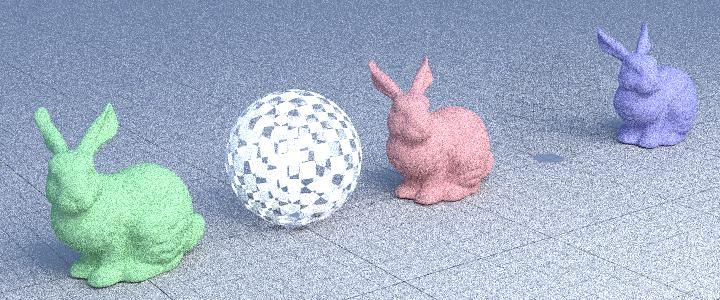
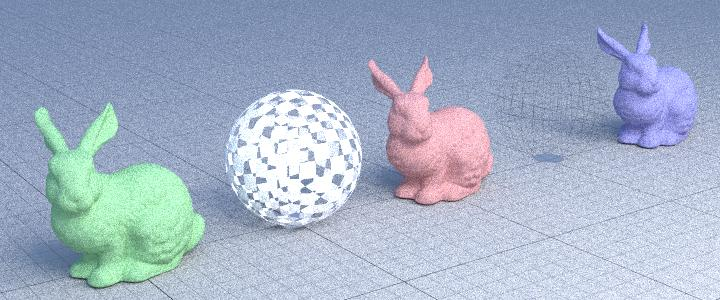
added MIS implementation, with some bug on directional light object

diff --git a/libs/yocto_pathtrace/yocto_pathtrace.cpp b/libs/yocto_pathtrace/yocto_pathtrace.cpp
@@ -101,10 +101,10 @@ static vec3f eval_bsdfcos(const material_point& material, const vec3f& normal,
         return eval_glossy(material.color, material.ior, material.roughness,
             normal, outgoing, incoming);
       case material_type::reflective:
-        return eval_reflective(material.color, normal, outgoing, incoming);
+        return eval_reflective(material.color, material.roughness, normal, outgoing, incoming);
       case material_type::transparent:
         return eval_transparent(
-            material.color, material.ior, normal, outgoing, incoming);
+            material.color, material.ior, material.roughness, normal, outgoing, incoming);
       default: return zero3f;
   }
   return zero3f;
@@ -139,10 +139,10 @@ static vec3f sample_bsdfcos(const material_point& material, const vec3f& normal,
   case material_type::glossy:
     return sample_glossy(material.color, material.ior, material.roughness, normal, outgoing, rnl, rn);
   case material_type::reflective:
-    return sample_reflective(material.color, normal, outgoing);
+    return sample_reflective(material.color, material.roughness, normal, outgoing, rn);
   case material_type::transparent:
     return sample_transparent(
-        material.color, material.ior, normal, outgoing, rnl);
+        material.color, material.ior, material.roughness, normal, outgoing, rnl, rn);
   default: return zero3f;
   }
   return zero3f;
@@ -174,10 +174,10 @@ static float sample_bsdfcos_pdf(const material_point& material,
       return sample_glossy_pdf(material.color, material.ior, material.roughness,
           normal, outgoing, incoming);
     case material_type::reflective:
-      return sample_reflective_pdf(material.color, normal, outgoing, incoming);
+      return sample_reflective_pdf(material.color, material.roughness, normal, outgoing, incoming);
     case material_type::transparent:
       return sample_tranparent_pdf(
-          material.color, material.ior, normal, outgoing, incoming);
+          material.color, material.ior, material.roughness, normal, outgoing, incoming);
     default: return 0;
   }
   return 0;
@@ -202,16 +202,82 @@ static float sample_delta_pdf(const material_point& material,
 static vec3f sample_lights(const scene_data& scene,
     const pathtrace_lights& lights, const vec3f& position, float rl, float rel,
     const vec2f& ruv) {
-  // YOUR CODE GOES HERE
-  return {0, 0, 0};
+  // Sample random light
+  unsigned int lid = sample_uniform(lights.lights.size(), rl);
+  const pathtrace_light& light = lights.lights[lid];
+
+  if (light.instance != invalidid) 
+  {
+    const instance_data& inst = scene.instances[light.instance];
+    auto tid = sample_discrete(light.elements_cdf, rel);
+    auto uv  = sample_triangle(ruv);
+    vec3f local_p = eval_position(scene, inst, tid, uv);
+    return normalize(local_p - position);
+  } 
+  else if (light.environment != invalidid) 
+  {
+    const environment_data& env = scene.environments[light.environment]; 
+    if (env.emission_tex == invalidid) return zero3f;
+
+    const texture_data& texture = scene.textures[env.emission_tex];
+    int tid  = sample_discrete(light.elements_cdf, rel);
+    float u  = ((tid % texture.width) + ruv.x) / static_cast<float>(texture.width);
+    float v  = ((tid / texture.width) + ruv.y) / static_cast<float>(texture.height);
+    return transform_direction(env.frame, 
+        vec3f{cos(u * 2 * pif) * sin(v * pif), cos(v * pif), sin(u * 2 * pif) * sin(v * pif)});
+  }
+  return zero3f;
 }
 
 // Sample lights pdf
 static float sample_lights_pdf(const scene_data& scene, const bvh_data& bvh,
     const pathtrace_lights& lights, const vec3f& position,
     const vec3f& direction) {
-  // YOUR CODE GOES HERE
-  return 0;
+  float pdf = 0.f;
+  for (const pathtrace_light& l : lights.lights) 
+  {
+    if (l.instance != invalidid) 
+    {
+      float lpdf = 0.f;
+      vec3f np   = position;
+      for (unsigned int bounce = 0; bounce < 100; ++bounce) 
+      {
+        auto isec = intersect_bvh(bvh, scene, ray3f{np, direction});
+        if (!isec.hit) break;
+        vec3f lp = eval_position(scene, isec);
+        vec3f ln = eval_element_normal(scene, isec);
+
+        float A = l.elements_cdf.back();
+        lpdf += distance_squared(lp, position) /
+                (abs(dot(ln, direction)) * A);
+        np = lp + direction * 1e-3f;
+      }
+      pdf += lpdf;
+    } 
+    else if (l.environment != invalidid) 
+    {
+      const environment_data& env     = scene.environments[l.environment];
+      if (env.emission_tex != invalidid) 
+      {
+        const texture_data& texture = scene.textures[env.emission_tex];
+        vec3f wl = transform_direction(inverse(env.frame), direction);
+        vec2f texcoord = {atan2(wl.z, wl.x) / (2 * pif), acos(clamp(wl.y, -1.f, 1.f)) / pif};
+        if (texcoord.x < 0) texcoord.x += 1;
+
+        int i = clamp(
+            static_cast<int>(texcoord.x * texture.width), 0, texture.width - 1);
+        int j = clamp(static_cast<int>(texcoord.y * texture.height), 0,
+            texture.height - 1);
+
+        float prob = sample_discrete_pdf(l.elements_cdf, j * texture.width + i) / l.elements_cdf.back();
+        float angle = (2 * pif / texture.width) * (pif / texture.height) *
+                      sin(pif * (j + 0.5f) / texture.height);
+        pdf += prob / angle;
+      } 
+    }
+  }
+  pdf *= sample_uniform_pdf(lights.lights.size());
+  return pdf;
 }
 
 // Recursive path tracing.
@@ -219,7 +285,67 @@ static vec4f shade_pathtrace(const scene_data& scene, const bvh_data& bvh,
     const pathtrace_lights& lights, const ray3f& ray_, rng_state& rng,
     const pathtrace_params& params) {
   // YOUR CODE GOES HERE
-  return {0, 0, 0, 0};
+  // Init
+  ray3f ray = ray_;
+  vec3f l   = zero3f;
+  vec3f w   = one3f;
+
+  // For bounce 0 --> max_bounce
+  for (unsigned int bounce = 0; bounce < params.bounces; ++bounce) {
+    const bvh_intersection& isec = intersect_bvh(bvh, scene, ray);
+    if (!isec.hit) 
+    {
+      l += w * eval_environment(scene, ray.d);
+      break;
+    }
+
+    const vec3f& outgoing = -ray.d;
+    const vec3f& position = eval_shading_position(scene, isec, outgoing);
+    const vec3f& normal   = eval_shading_normal(scene, isec, outgoing);
+
+    const material_point& material = eval_material(scene, isec);
+
+    if (rand1f(rng) >= material.opacity) 
+    {
+      ray = {position + ray.d * 1e-2f, ray.d};
+      bounce -= 1;
+      continue;
+    }
+
+    l += w * eval_emission(material, normal, outgoing);
+    vec3f incoming = zero3f;
+    if (!is_delta(material)) 
+    {
+      if (rand1f(rng) < 0.5f)
+        incoming = sample_bsdfcos(material, normal, outgoing, rand1f(rng), rand2f(rng));
+      else incoming = sample_lights(scene, lights, position, rand1f(rng), rand1f(rng), rand2f(rng));
+
+      if (incoming == zero3f) break;
+      w *= eval_bsdfcos(material, normal, outgoing, incoming) /
+           (0.5f * sample_bsdfcos_pdf(material, normal, outgoing, incoming) + 0.5f * sample_lights_pdf(scene, bvh, lights, position, incoming));
+    } else 
+    {
+      incoming = sample_delta(material, normal, outgoing, rand1f(rng));
+      if (incoming == zero3f) break;
+      w *= eval_delta(material, normal, outgoing, incoming) /
+           sample_delta_pdf(material, normal, outgoing, incoming);
+    }
+
+    // check weight
+    if (w == zero3f || !isfinite(w)) break;
+
+    // Russian roulette
+    if (bounce > 3) 
+    {
+      float rrp = min(1.f, max(w));  // Russian Roulette probability
+      if (rand1f(rng) >= rrp) break;
+      w *= 1.f / rrp;
+    }
+
+    ray = {position, incoming};
+  }
+
+  return rgb_to_rgba(l);
 }
 
 // Recursive path tracing.
@@ -236,7 +362,11 @@ static vec4f shade_naive(const scene_data& scene, const bvh_data& bvh,
   // For bounce 0 --> max_bounce
   for (unsigned int bounce = 0; bounce < params.bounces; ++bounce) {
     const bvh_intersection& isec = intersect_bvh(bvh, scene, ray);
-    if (!isec.hit) return rgb_to_rgba(l + (w * eval_environment(scene, ray.d)));
+    if (!isec.hit) 
+    {
+      l += w * eval_environment(scene, ray.d);
+      break;
+    }
 
     const vec3f& outgoing = -ray.d;
     const vec3f& position = eval_shading_position(scene, isec, outgoing);
@@ -244,7 +374,8 @@ static vec4f shade_naive(const scene_data& scene, const bvh_data& bvh,
 
     const material_point& material = eval_material(scene, isec);
     
-    if (material.opacity < 1 && rand1f(rng) >= material.opacity) {
+    if (rand1f(rng) >= material.opacity) 
+    {
       ray = {position + ray.d * 1e-2f, ray.d};
       bounce -= 1;
       continue;
@@ -255,17 +386,26 @@ static vec4f shade_naive(const scene_data& scene, const bvh_data& bvh,
     if (!is_delta(material)) 
     {
       incoming = sample_bsdfcos(material, normal, outgoing, rand1f(rng), rand2f(rng));
+      if (incoming == zero3f) break;
       w *= eval_bsdfcos(material, normal, outgoing, incoming) / sample_bsdfcos_pdf(material, normal, outgoing, incoming);
     } 
     else 
     {
       incoming = sample_delta(material, normal, outgoing, rand1f(rng));
+      if (incoming == zero3f) break;
       w *= eval_delta(material, normal, outgoing, incoming) / sample_delta_pdf(material, normal, outgoing, incoming);
     }
 
+    // check weight
+    if (w == zero3f || !isfinite(w)) break;
+
     // Russian roulette
-    if (rand1f(rng) >= min(1.f, max(w))) break;
-    w *= 1.f / min(1.f, max(w));
+    if (bounce > 3) {
+      float rrp = min(1.f, max(w));  // Russian Roulette probability
+      if (rand1f(rng) >= rrp) break;
+      w *= 1.f / rrp;
+    }
+    
     ray = {position, incoming};
   }
 
@@ -475,8 +615,8 @@ pathtrace_lights make_lights(
 
 // Sampling camera by sampling lens
 ray3f sample_camera(const camera_data& camera, vec2i ij, int img_width, int img_height, vec2f puv, vec2f luv) {
-  auto u = (ij.x + puv.x) / img_width;
-  auto v = (ij.y + puv.y) / img_height;
+  auto u = (ij.x + puv.x) / static_cast<float>(img_width);
+  auto v = (ij.y + puv.y) / static_cast<float>(img_height);
 
   return eval_camera(camera, {u, v}, sample_disk(luv));
 }
